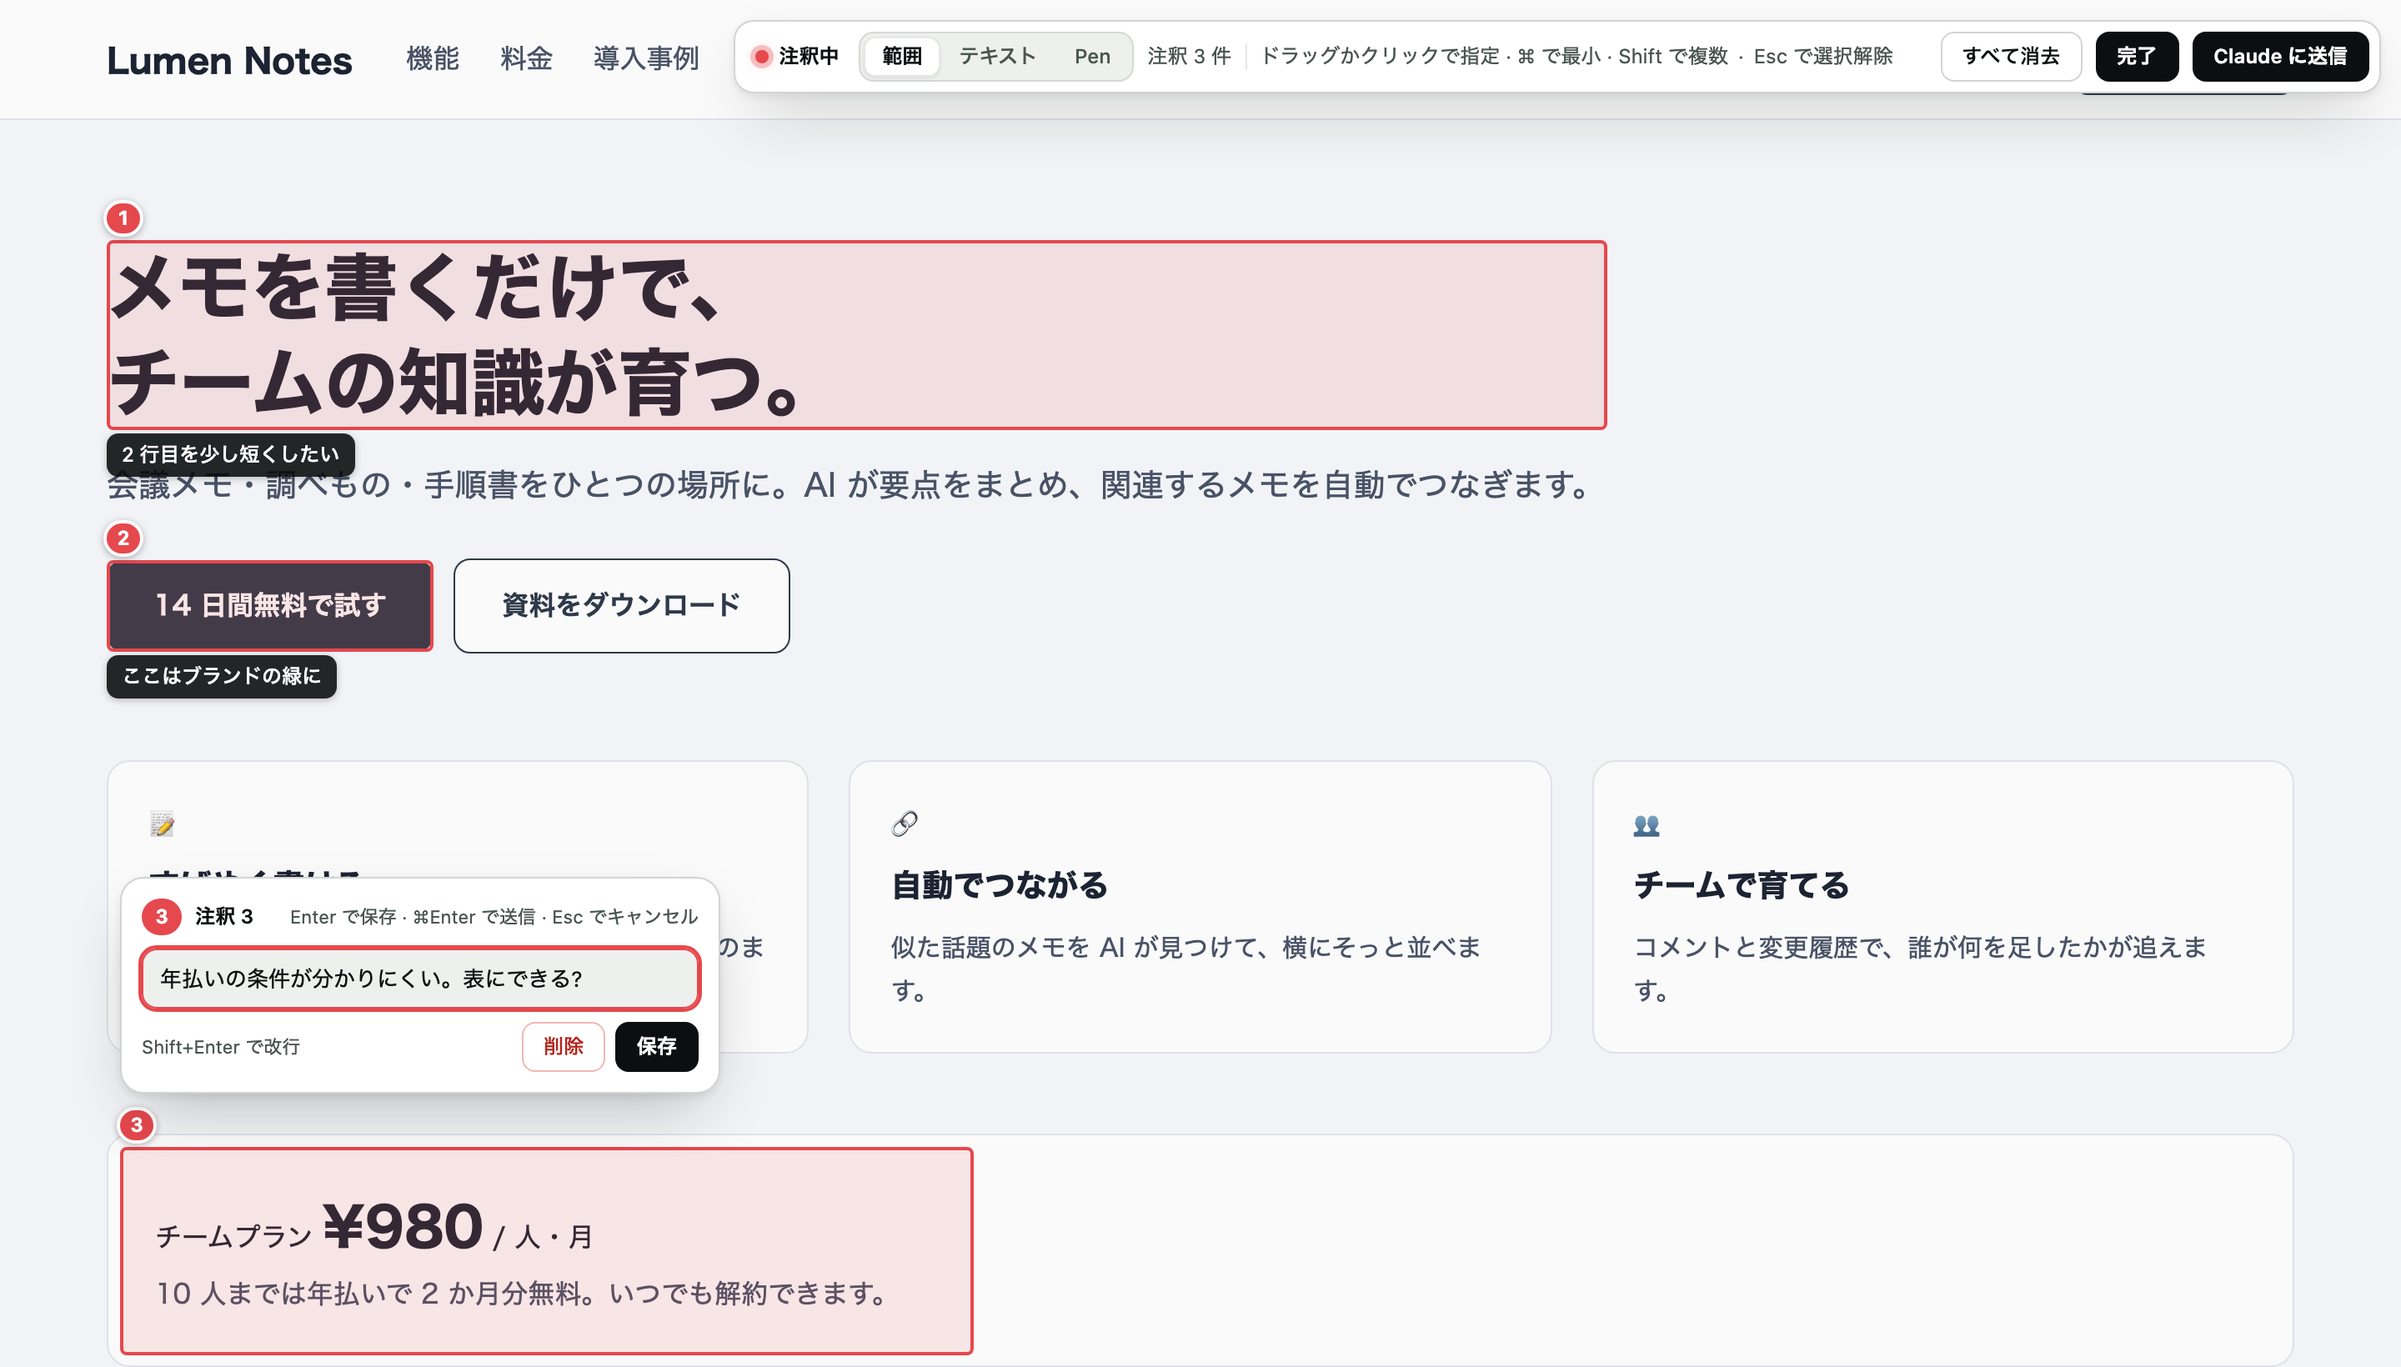
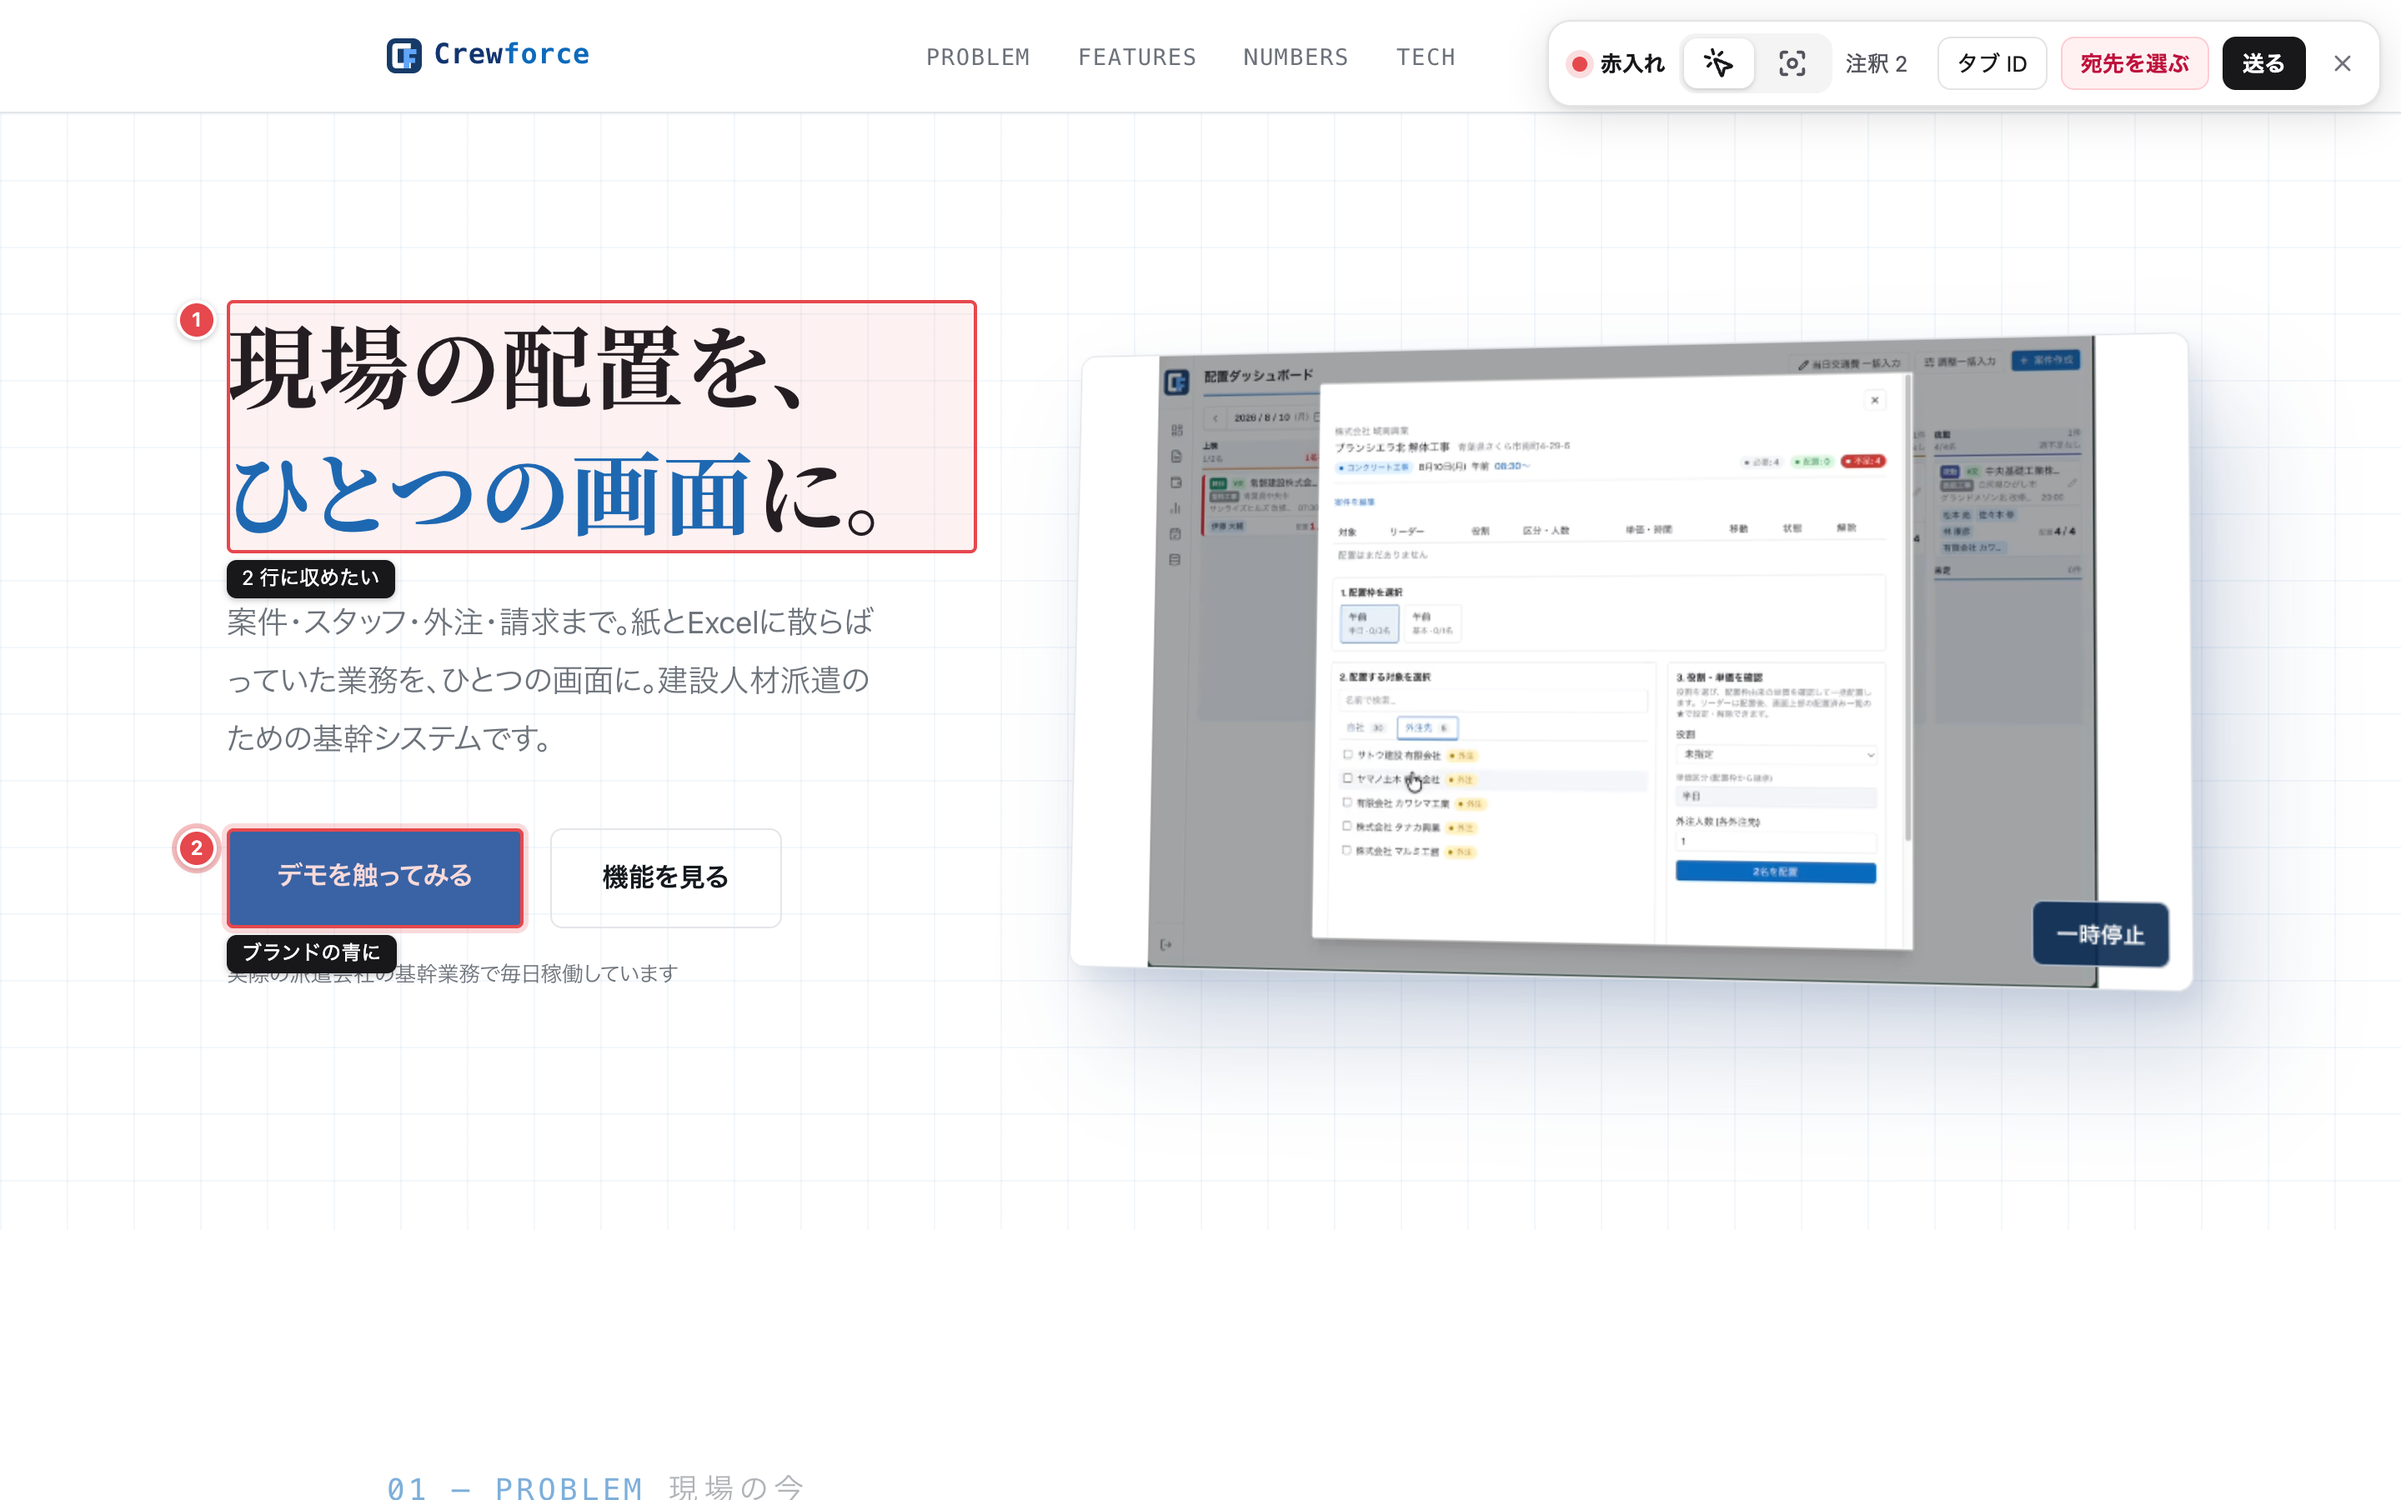
docs(readme): 旧 ABG の画面と古い画面の画像を今の画面に差し替える
Claude-Session: https://claude.ai/code/session_018tV9SHCkoray9rZVfgC8c3

Changed region(s): [[0.0312, 0.1555, 0.9688, 1.0], [0.0312, 0.0, 1.0, 0.0933], [0.25, 0.5598, 0.3125, 0.5909]]

diff --git a/README.md b/README.md
@@ -33,7 +33,7 @@ rmp は、注釈を手元の受信箱 (127.0.0.1) に置くだけにして、届
 akapen は、作る前に 1 案を人に見せて、赤 (回答・訂正) をもらってから作る skill です。
 rmp では、その赤を入れる体験を、いつものブラウザで見ているページに持ち込んでいます。
 
-![注釈モードでページの 3 か所に赤とコメントを付けたところ](docs/annotate.png)
+![注釈モードでページの 2 か所に赤とコメントを付けたところ](docs/annotate.png)
 
 ## 入れる
 
